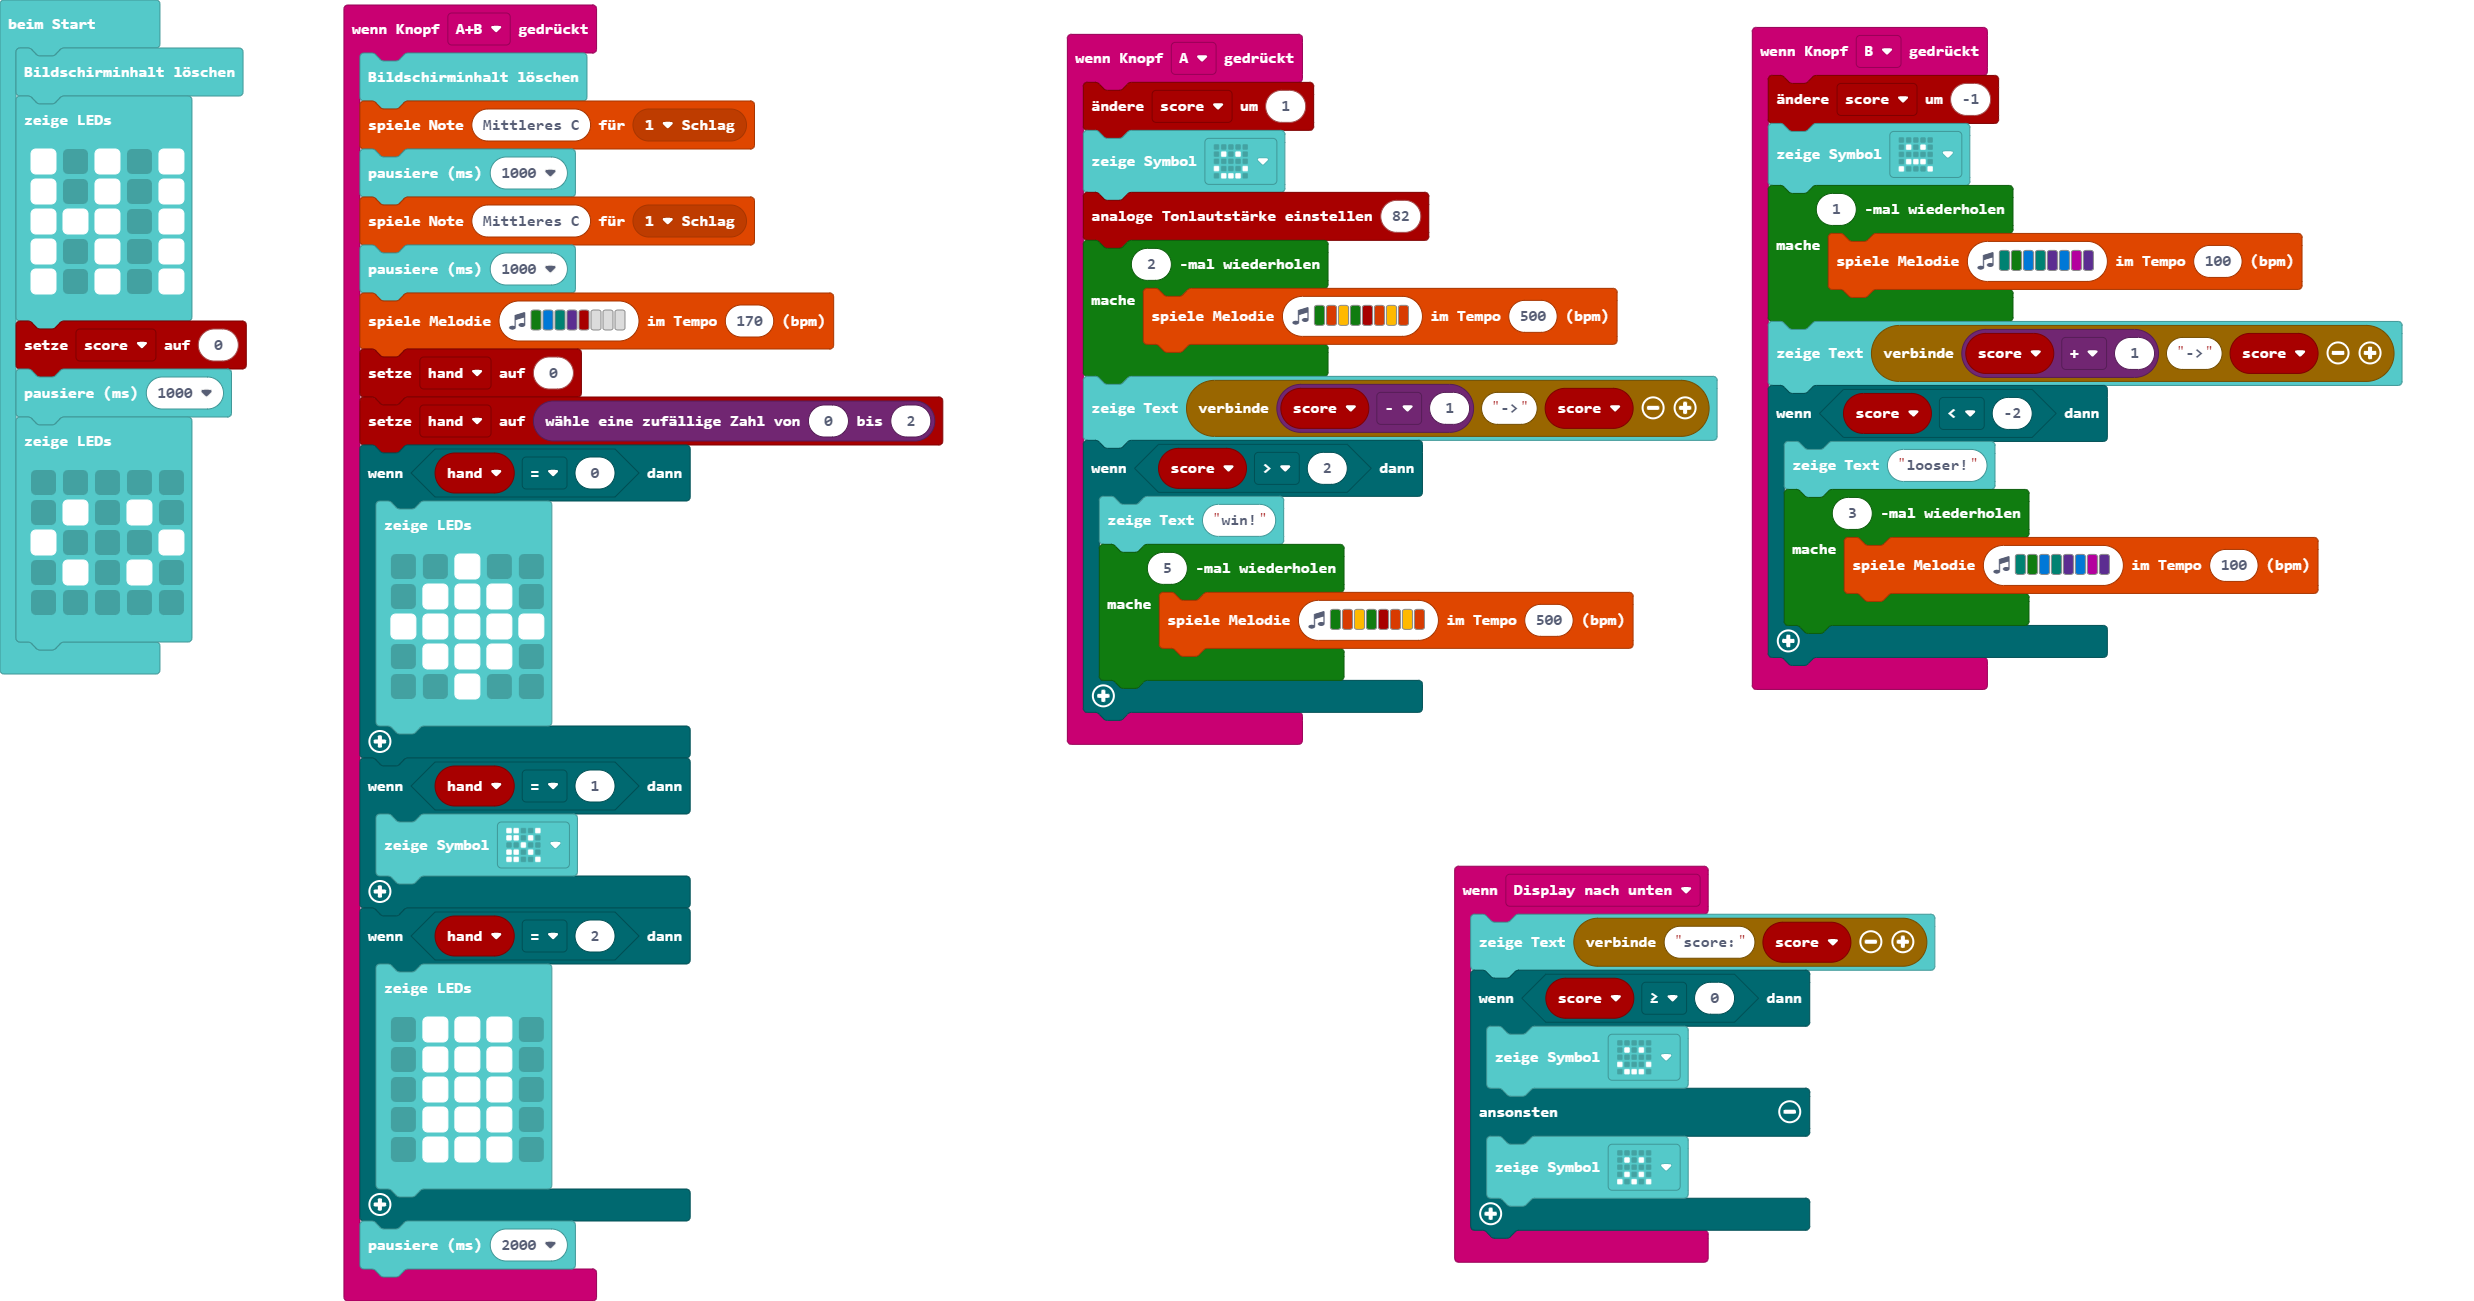
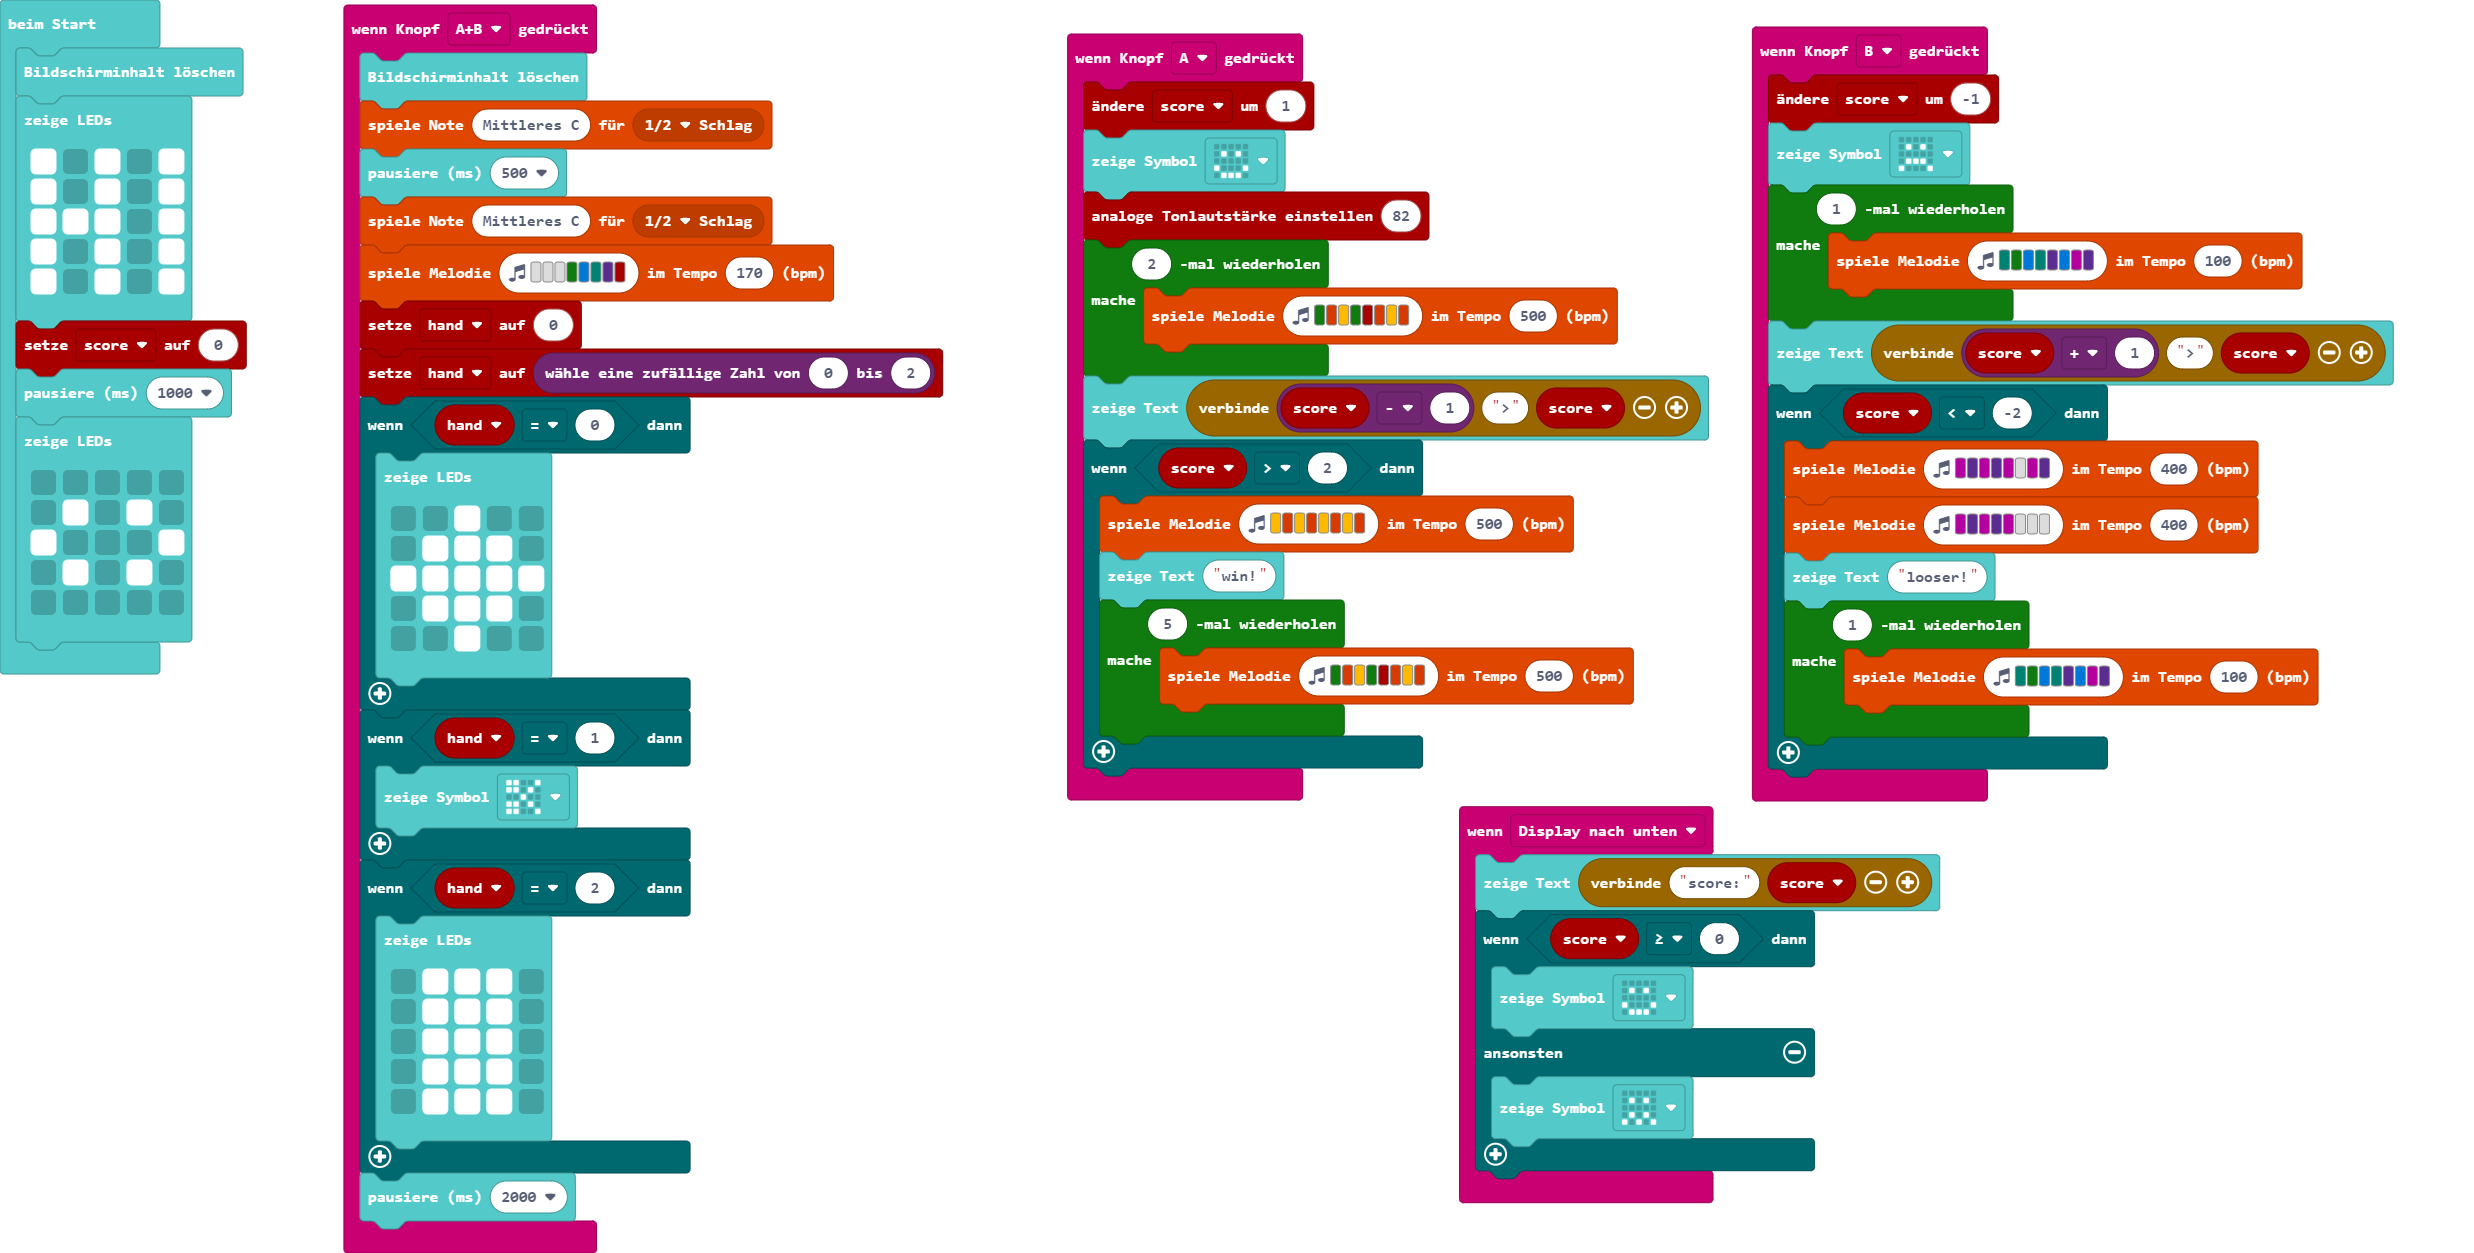
Aktualisiere main.blocks, main.ts, main.py

Changed region(s): [[0.4046, 0.0311, 0.996, 0.996], [0.0, 0.0, 0.4046, 0.996]]

diff --git a/main.ts b/main.ts
@@ -13,8 +13,9 @@ input.onButtonPressed(Button.A, function () {
     for (let index = 0; index < 2; index++) {
         music.playMelody("G B A G C5 B A B ", 500)
     }
-    basic.showString("" + (score - 1) + "->" + score)
+    basic.showString("" + (score - 1) + ">" + score)
     if (score > 2) {
+        music.playMelody("A B A B A B A B ", 500)
         basic.showString("win!")
         for (let index = 0; index < 5; index++) {
             music.playMelody("G B A G C5 B A B ", 500)
@@ -23,11 +24,10 @@ input.onButtonPressed(Button.A, function () {
 })
 input.onButtonPressed(Button.AB, function () {
     basic.clearScreen()
-    music.playTone(262, music.beat(BeatFraction.Whole))
-    basic.pause(1000)
-    music.playTone(262, music.beat(BeatFraction.Whole))
-    basic.pause(1000)
-    music.playMelody("G E F D C5 - - - ", 170)
+    music.playTone(262, music.beat(BeatFraction.Half))
+    basic.pause(500)
+    music.playTone(262, music.beat(BeatFraction.Half))
+    music.playMelody("- - - G E F D C5 ", 170)
     hand = 0
     hand = randint(0, 2)
     if (hand == 0) {
@@ -59,10 +59,12 @@ input.onButtonPressed(Button.B, function () {
     for (let index = 0; index < 1; index++) {
         music.playMelody("F G E F D E C D ", 100)
     }
-    basic.showString("" + (score + 1) + "->" + score)
+    basic.showString("" + (score + 1) + ">" + score)
     if (score < -2) {
+        music.playMelody("C D C D C - C D ", 400)
+        music.playMelody("C D C D C - - - ", 400)
         basic.showString("looser!")
-        for (let index = 0; index < 3; index++) {
+        for (let index = 0; index < 1; index++) {
             music.playMelody("F G E F D E C D ", 100)
         }
     }

diff --git a/main.py b/main.py
@@ -1,18 +1,28 @@
-# Punkte mit Variable "score" sammeln und bei Schütteln score anzeigen
+def on_gesture_screen_down():
+    basic.show_string("score:" + str(score))
+    if score >= 0:
+        basic.show_icon(IconNames.HAPPY)
+    else:
+        basic.show_icon(IconNames.CONFUSED)
+input.on_gesture(Gesture.SCREEN_DOWN, on_gesture_screen_down)
 
 def on_button_pressed_a():
+    global score
+    score += 1
     basic.show_icon(IconNames.HAPPY)
+    pins.analog_set_pitch_volume(82)
     for index in range(2):
         music.play_melody("G B A G C5 B A B ", 500)
-    # soll anzeigen, wieviele Punkte und +1
-    # 
-    basic.show_string("hi!")
+    basic.show_string("" + str((score - 1)) + ">" + str(score))
+    if score > 2:
+        basic.show_string("win!")
+        for index2 in range(5):
+            music.play_melody("G B A G C5 B A B ", 500)
 input.on_button_pressed(Button.A, on_button_pressed_a)
 
 def on_button_pressed_ab():
-    global score, hand
+    global hand
     basic.clear_screen()
-    score = 0
     music.play_tone(262, music.beat(BeatFraction.WHOLE))
     basic.pause(1000)
     music.play_tone(262, music.beat(BeatFraction.WHOLE))
@@ -38,17 +48,25 @@ def on_button_pressed_ab():
             . # # # .
             . # # # .
             """)
-    basic.pause(5000)
+    basic.pause(2000)
 input.on_button_pressed(Button.AB, on_button_pressed_ab)
 
 def on_button_pressed_b():
+    global score
+    score += -1
     basic.show_icon(IconNames.SAD)
-    for index2 in range(1):
+    for index3 in range(1):
         music.play_melody("F G E F D E C D ", 100)
+    basic.show_string("" + str((score + 1)) + ">" + str(score))
+    if score < -2:
+        basic.show_string("looser!")
+        for index4 in range(3):
+            music.play_melody("F G E F D E C D ", 100)
 input.on_button_pressed(Button.B, on_button_pressed_b)
 
 hand = 0
 score = 0
+basic.clear_screen()
 basic.show_leds("""
     # . # . #
     # . # . #
@@ -56,6 +74,7 @@ basic.show_leds("""
     # . # . #
     # . # . #
     """)
+score = 0
 basic.pause(1000)
 basic.show_leds("""
     . . . . .
@@ -64,5 +83,3 @@ basic.show_leds("""
     . # . # .
     . . . . .
     """)
-
-    
